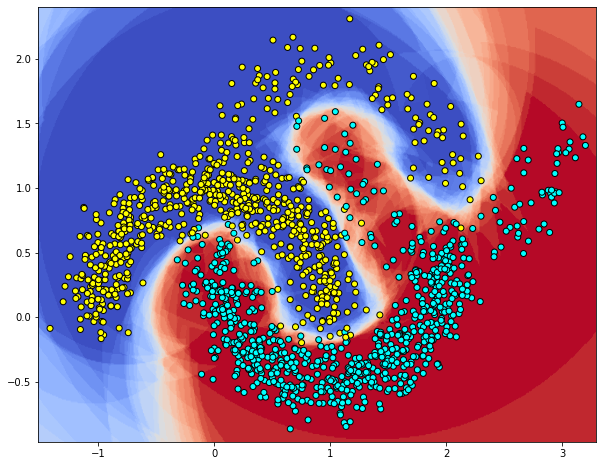
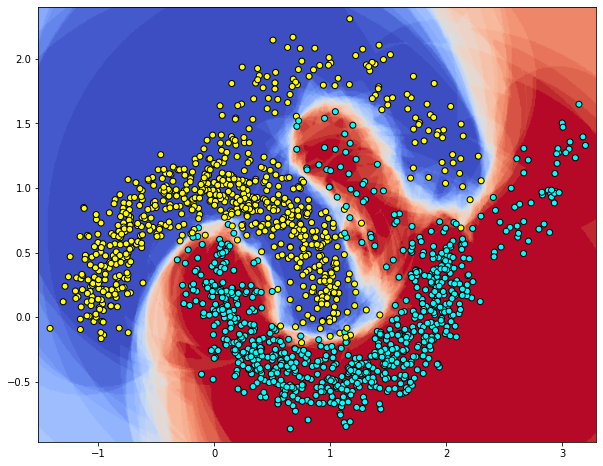
update demo_moon_003

diff --git a/demo/gkernel/RBFClassifier/demo_moon_003.old/demo_moon_003.md b/demo/gkernel/RBFClassifier/demo_moon_003.old/demo_moon_003.md
@@ -2135,7 +2135,7 @@ num_lm = 30
 ens_clf = BaggingClassifier(
     SimpleRBFClassifier(
         num_lm=num_lm,
-        logit = DecisionTreeClassifier(),
+        logit = DecisionTreeClassifier(max_leaf_nodes=int(num_lm/2)),
         init_lm='select_from_x'
     ),
     n_estimators=30,
@@ -2182,8 +2182,8 @@ ens_clf.fit(xtrain, ytrain)
     Building estimator 28 of 30 for this parallel run (total 30)...
     Building estimator 29 of 30 for this parallel run (total 30)...
     Building estimator 30 of 30 for this parallel run (total 30)...
-    CPU times: user 359 ms, sys: 6.01 ms, total: 365 ms
-    Wall time: 363 ms
+    CPU times: user 373 ms, sys: 973 µs, total: 374 ms
+    Wall time: 366 ms
 
 
     [Parallel(n_jobs=1)]: Done   1 out of   1 | elapsed:    0.4s remaining:    0.0s
@@ -2199,7 +2199,7 @@ ens_clf.fit(xtrain, ytrain)
                                                                                       criterion='gini',
                                                                                       max_depth=None,
                                                                                       max_features=None,
-                                                                                      max_leaf_nodes=None,
+                                                                                      max_leaf_nodes=15,
                                                                                       min_impurity_decrease=0.0,
                                                                                       min_impurity_split=None,
                                                                                       min_samples_leaf=1,
@@ -2225,7 +2225,7 @@ ens_clf.estimators_[0].gamma
 
 
 
-    0.6409423907622622
+    0.8126318934648888
 
 
 
@@ -2235,36 +2235,36 @@ for iest in ens_clf.estimators_:
     print(f1_score(ytrain, iest.predict(xtrain), average='macro'))
 ```
 
-    0.9959935897435898
-    0.9939913234710923
-    0.9913189768501598
-    0.9926528703899545
-    0.9919844819570689
-    0.9899834348271075
-    0.9939907029497637
-    0.9933240285126292
-    0.9879866518353726
-    0.9946575393694828
-    0.9946592228101033
-    0.9919871794871795
-    0.9899855391184871
-    0.9886478928040552
-    0.9893113670049025
-    0.9933246821213626
-    0.9919871794871795
-    0.9953256029193168
-    0.9939880054027792
-    0.9906526914017224
-    0.9886478928040552
-    0.9899855391184871
-    0.9926537078072386
-    0.9906526914017224
-    0.9853082332660776
-    0.9913160078040144
-    0.9933233510012303
+    0.9846474999232375
     0.9926553036052665
-    0.9913170286426735
-    0.9933204016308907
+    0.987308011405867
+    0.9913180183176458
+    0.9886466393384598
+    0.9853098290598291
+    0.9919844819570689
+    0.9846429075382848
+    0.9873123507810029
+    0.9913180183176458
+    0.9679888458911905
+    0.9879752878805154
+    0.9793013101602968
+    0.9886524999432627
+    0.9899845049162728
+    0.9899811868953925
+    0.9886491055717758
+    0.9839807484194338
+    0.9839726181084483
+    0.9859811524382782
+    0.9846395708696807
+    0.9873186737201538
+    0.9846395708696807
+    0.981954887218045
+    0.984630264301539
+    0.9799538135865034
+    0.987308011405867
+    0.9846489208191336
+    0.9859824999299125
+    0.9873137062272788
 
 
 
@@ -2284,18 +2284,18 @@ print(classification_report(ytrain, pred))
 print(confusion_matrix(ytrain, pred))
 ```
 
-    F1_SCORE : 1.0
+    F1_SCORE : 0.9939893972968317
                   precision    recall  f1-score   support
     
-               0       1.00      1.00      1.00       720
-               1       1.00      1.00      1.00       780
+               0       1.00      0.99      0.99       720
+               1       0.99      1.00      0.99       780
     
-        accuracy                           1.00      1500
-       macro avg       1.00      1.00      1.00      1500
-    weighted avg       1.00      1.00      1.00      1500
+        accuracy                           0.99      1500
+       macro avg       0.99      0.99      0.99      1500
+    weighted avg       0.99      0.99      0.99      1500
     
-    [[720   0]
-     [  0 780]]
+    [[714   6]
+     [  3 777]]
 
 
 
@@ -2305,7 +2305,16 @@ print(classification_report(yans, ens_clf.predict(xtest)))
 print(confusion_matrix(yans, ens_clf.predict(xtest)))
 ```
 
-    F1_SCORE : 0.9873174999365875
+    [Parallel(n_jobs=1)]: Using backend SequentialBackend with 1 concurrent workers.
+    [Parallel(n_jobs=1)]: Done   1 out of   1 | elapsed:    0.0s remaining:    0.0s
+    [Parallel(n_jobs=1)]: Done   1 out of   1 | elapsed:    0.0s finished
+    [Parallel(n_jobs=1)]: Using backend SequentialBackend with 1 concurrent workers.
+    [Parallel(n_jobs=1)]: Done   1 out of   1 | elapsed:    0.0s remaining:    0.0s
+    [Parallel(n_jobs=1)]: Done   1 out of   1 | elapsed:    0.0s finished
+    [Parallel(n_jobs=1)]: Using backend SequentialBackend with 1 concurrent workers.
+
+
+    F1_SCORE : 0.9879844278184527
                   precision    recall  f1-score   support
     
                0       0.99      0.98      0.99       780
@@ -2315,17 +2324,10 @@ print(confusion_matrix(yans, ens_clf.predict(xtest)))
        macro avg       0.99      0.99      0.99      1500
     weighted avg       0.99      0.99      0.99      1500
     
-    [[767  13]
+    [[768  12]
      [  6 714]]
 
 
-    [Parallel(n_jobs=1)]: Using backend SequentialBackend with 1 concurrent workers.
-    [Parallel(n_jobs=1)]: Done   1 out of   1 | elapsed:    0.0s remaining:    0.0s
-    [Parallel(n_jobs=1)]: Done   1 out of   1 | elapsed:    0.0s finished
-    [Parallel(n_jobs=1)]: Using backend SequentialBackend with 1 concurrent workers.
-    [Parallel(n_jobs=1)]: Done   1 out of   1 | elapsed:    0.0s remaining:    0.0s
-    [Parallel(n_jobs=1)]: Done   1 out of   1 | elapsed:    0.0s finished
-    [Parallel(n_jobs=1)]: Using backend SequentialBackend with 1 concurrent workers.
     [Parallel(n_jobs=1)]: Done   1 out of   1 | elapsed:    0.0s remaining:    0.0s
     [Parallel(n_jobs=1)]: Done   1 out of   1 | elapsed:    0.0s finished
 
@@ -2359,7 +2361,7 @@ plt.scatter(xtrain[:,0], xtrain[:,1], c=ytrain, cmap=cm_bright, edgecolors='k')
 
 
 
-    <matplotlib.collections.PathCollection at 0x7fa9cafb00b8>
+    <matplotlib.collections.PathCollection at 0x7fa9cdfc4908>
 
 
 
@@ -2394,7 +2396,7 @@ plt.scatter(lm[:,0], lm[:,1], c='red', s=64, marker='s', edgecolors='w')
 
 
 
-    <matplotlib.collections.PathCollection at 0x7fa9caf7ca20>
+    <matplotlib.collections.PathCollection at 0x7fa9cdfa2208>
 
 
 
@@ -2429,7 +2431,7 @@ plt.scatter(lm[:,0], lm[:,1], c='red', s=64, marker='s', edgecolors='w')
 
 
 
-    <matplotlib.collections.PathCollection at 0x7fa9cad9a668>
+    <matplotlib.collections.PathCollection at 0x7fa9cde159b0>
 
 
 
@@ -2464,7 +2466,7 @@ plt.scatter(lm[:,0], lm[:,1], c='red', s=64, marker='s', edgecolors='w')
 
 
 
-    <matplotlib.collections.PathCollection at 0x7fa9cac1b710>
+    <matplotlib.collections.PathCollection at 0x7fa9cdc97208>
 
 
 
